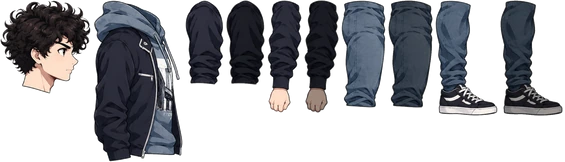
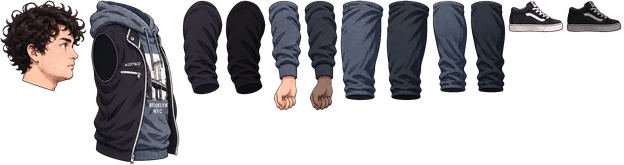
Corri Marf!: Marf rifatto con il nuovo foglio e le ragazze animate
- marf-pezzi.webp e ragazza-pezzi.webp: pezzi scontornati dal verde,
  girati verso destra (scarpe e sandali erano già girati), scritte della felpa raddrizzate
- scheletro generico per tutti i personaggi: busto, testa, braccio, avambraccio,
  coscia, stinco e piede separati
- le tre inseguitrici usano la stessa ragazza con taglie leggermente diverse

Claude-Session: https://claude.ai/code/session_017AfdJjPRYm7AhKZz7XGFBU

diff --git a/giochi/corri-marf/index.html b/giochi/corri-marf/index.html
@@ -676,104 +676,123 @@
       ctx.beginPath(); ctx.arc(MARF_X - 22, TERRA - 5, 5, 0, Math.PI * 2); ctx.arc(MARF_X - 30, TERRA - 8, 4, 0, Math.PI * 2); ctx.fill();
     }
   }
-  /* ── Marf a pezzi: i disegni di Leo (marf-pezzi.webp) montati su uno scheletro ──
-     Coordinate in pixel del foglio originale (girato verso destra), K le porta nel mondo. */
-  var PEZZI = { img: new Image(), pronto: false };
-  PEZZI.img.onload = function () { PEZZI.pronto = true; };
-  PEZZI.img.src = 'marf-pezzi.webp';
-  var K = 0.066, ATL_S = 0.25;
-  var ATLANTE = {
-    testa: [0, 0, 91, 94], busto: [93, 0, 90, 162],
-    braccio: [185, 0, 39, 85], braccioDietro: [226, 0, 39, 85],
-    avambraccio: [267, 0, 35, 113], avambraccioDietro: [304, 0, 35, 113],
-    coscia: [341, 0, 45, 108], cosciaDietro: [388, 0, 45, 108],
-    gamba: [435, 0, 63, 116], gambaDietro: [500, 0, 63, 116]
-  };
-  // perni (in px del pezzo) e lunghezze delle ossa
-  var COSCIA = { px: 90, py: 50, L: 350 }, STINCO = { px: 72, py: 25 };
-  var OMERO = { px: 78, py: 50, L: 255 }, AVAMB = { px: 70, py: 32 };
-  var GAMBA_TOT = 350 + 464 - 25;                  // dall'anca alla suola
-  var SPALLA = [-30, -365], BUSTO = [-159, -522];  // rispetto all'anca
-  var TESTA = { x: -127, y: -822, collo: [187, 370], scala: 1.15 };
+  /* ── Personaggi a pezzi: i fogli disegnati da Leo, scontornati e montati su uno scheletro ──
+     I dati vengono dallo script che taglia i fogli: per ogni pezzo il rettangolo nell'atlante
+     (scala 0.25), l'origine e il perno in pixel del foglio originale (girato verso destra),
+     la lunghezza delle ossa; anca e spalla sono punti del foglio. K porta i pixel nel mondo. */
+  var RIG_DATI = {"marf":{"atlante":{"testa":[0,0,87,92],"busto":[89,0,91,165],"braccio":[182,0,41,95],"braccioDietro":[225,0,41,95],"avambraccio":[268,0,34,111],"avambraccioDietro":[304,0,34,111],"coscia":[340,0,44,101],"cosciaDietro":[386,0,44,101],"stinco":[432,0,36,93],"stincoDietro":[470,0,36,93],"piede":[508,0,56,33],"piedeDietro":[566,0,56,33]},"parti":{"testa":{"o":[1060,10],"w":346,"h":368,"p":[155,355]},"busto":{"o":[1046,355],"w":364,"h":658},"braccio":{"o":[546,88],"w":163,"h":381,"p":[82,62],"L":295},"avambraccio":{"o":[575,484],"w":137,"h":442,"p":[65,31]},"coscia":{"o":[48,65],"w":177,"h":405,"p":[87,50],"L":330},"stinco":{"o":[62,484],"w":144,"h":371,"p":[68,26],"L":330},"piede":{"o":[1215,862],"w":224,"h":133,"p":[47,25]}},"anca":[1215,940],"spalla":[1105,572],"testaGiu":35},"ragazza":{"atlante":{"busto":[0,0,109,242],"braccio":[111,0,45,90],"braccioDietro":[158,0,45,90],"avambraccio":[205,0,38,115],"avambraccioDietro":[245,0,38,115],"coscia":[285,0,54,112],"cosciaDietro":[341,0,54,112],"stinco":[397,0,29,75],"stincoDietro":[428,0,29,75],"piede":[459,0,55,30],"piedeDietro":[516,0,55,30]},"parti":{"busto":{"o":[1070,29],"w":437,"h":969},"braccio":{"o":[576,88],"w":178,"h":359,"p":[92,52],"L":280},"avambraccio":{"o":[596,477],"w":151,"h":461,"p":[72,33]},"coscia":{"o":[26,97],"w":215,"h":448,"p":[104,53],"L":370},"stinco":{"o":[99,559],"w":114,"h":301,"p":[51,16],"L":265},"piede":{"o":[1299,867],"w":220,"h":120,"p":[41,18]}},"anca":[1290,915],"spalla":[1200,560],"testaGiu":0}};
+  var RIG = {};
+  Object.keys(RIG_DATI).forEach(function (nome) {
+    var d = RIG_DATI[nome], img = new Image();
+    var r = { d: d, img: img, pronto: false, K: 0.062 };
+    r.gamba = d.parti.coscia.L + d.parti.stinco.L + (d.parti.piede.h - d.parti.piede.p[1]); // anca → suola
+    img.onload = function () { r.pronto = true; };
+    img.src = nome + '-pezzi.webp?v=2';
+    RIG[nome] = r;
+  });
+  var PEZZI = RIG.marf;
+  var ATL_S = 0.25;
 
-  function pezzo(nome, px, py, ang, scalaExtra) {
-    var r = ATLANTE[nome], k = K * (scalaExtra || 1);
+  function pezzoR(R, nome, dietro, ang) {
+    var pt = R.d.parti[nome], at = R.d.atlante[nome + (dietro ? 'Dietro' : '')], k = R.K;
     ctx.save(); ctx.rotate(-ang);
-    ctx.drawImage(PEZZI.img, r[0], r[1], r[2], r[3], -px * k, -py * k, r[2] / ATL_S * k, r[3] / ATL_S * k);
+    ctx.drawImage(R.img, at[0], at[1], at[2], at[3], -pt.p[0] * k, -pt.p[1] * k, pt.w * k, pt.h * k);
     ctx.restore();
   }
-  function gambaPezzi(dietro, coscia, stinco, anca) {
-    var suf = dietro ? 'Dietro' : '';
+  function lungo(R, nome, ang) { var L = R.d.parti[nome].L * R.K; ctx.translate(Math.sin(ang) * L, Math.cos(ang) * L); }
+  function gambaR(R, dietro, coscia, stinco, anca) {
     ctx.save(); ctx.translate(dietro ? -4 : 3, anca);
-    ctx.save();
-    ctx.translate(Math.sin(coscia) * COSCIA.L * K, Math.cos(coscia) * COSCIA.L * K);
-    pezzo('gamba' + suf, STINCO.px, STINCO.py, stinco);
+    ctx.save(); lungo(R, 'coscia', coscia);
+    ctx.save(); lungo(R, 'stinco', stinco);
+    pezzoR(R, 'piede', dietro, stinco * 0.6 - 0.05);   // il piede segue lo stinco, un po' meno
     ctx.restore();
-    pezzo('coscia' + suf, COSCIA.px, COSCIA.py, coscia);
+    pezzoR(R, 'stinco', dietro, stinco);
+    ctx.restore();
+    pezzoR(R, 'coscia', dietro, coscia);
     ctx.restore();
   }
-  function braccioPezzi(dietro, omero, avamb) {
-    var suf = dietro ? 'Dietro' : '';
-    ctx.save(); ctx.translate((SPALLA[0] + (dietro ? -14 : 0)) * K, SPALLA[1] * K);
-    ctx.save();
-    ctx.translate(Math.sin(omero) * OMERO.L * K, Math.cos(omero) * OMERO.L * K);
-    pezzo('avambraccio' + suf, AVAMB.px, AVAMB.py, avamb);
+  function braccioR(R, dietro, omero, avamb) {
+    var k = R.K, A = R.d.anca, Sp = R.d.spalla;
+    ctx.save(); ctx.translate((Sp[0] - A[0] - (dietro ? 12 : 0)) * k, (Sp[1] - A[1]) * k);
+    ctx.save(); lungo(R, 'braccio', omero);
+    pezzoR(R, 'avambraccio', dietro, avamb);
     ctx.restore();
-    pezzo('braccio' + suf, OMERO.px, OMERO.py, omero);
+    pezzoR(R, 'braccio', dietro, omero);
+    ctx.restore();
+  }
+  // disegna il personaggio con l'origine sui piedi; anca = y dell'anca (negativa)
+  function personaggio(R, anca, po, piega, testaAng) {
+    var k = R.K, A = R.d.anca, pt = R.d.parti;
+    ctx.save(); ctx.translate(0, anca); ctx.rotate(-piega);
+    braccioR(R, true, po.bB, po.gB);              // braccio lontano, dietro a tutto
+    ctx.restore();
+    gambaR(R, true, po.cB, po.sB, anca);
+    gambaR(R, false, po.cA, po.sA, anca);
+    ctx.save(); ctx.translate(0, anca); ctx.rotate(-piega);
+    if (pt.testa) {                                // testa separata: dietro al busto, così il cappuccio copre il collo
+      var t = pt.testa;
+      ctx.save();
+      ctx.translate((t.o[0] + t.p[0] - A[0]) * k, (t.o[1] + t.p[1] + R.d.testaGiu - A[1]) * k);
+      pezzoR(R, 'testa', false, testaAng || 0);
+      ctx.restore();
+    }
+    var b = R.d.atlante.busto;
+    ctx.drawImage(R.img, b[0], b[1], b[2], b[3], (pt.busto.o[0] - A[0]) * k, (pt.busto.o[1] - A[1]) * k, pt.busto.w * k, pt.busto.h * k);
+    braccioR(R, false, po.bA, po.gA);
     ctx.restore();
   }
   function marfPezzi(anca, cA, sA, cB, sB, bA, gA, bB, gB, corre, salto, scivola, p) {
     var piega = corre ? 0.12 : (salto ? 0.06 : 0);   // in corsa si sporge in avanti
-    ctx.save(); ctx.translate(0, anca); ctx.rotate(-piega);
-    braccioPezzi(true, bB, gB);   // braccio lontano, dietro a tutto
-    ctx.restore();
-    gambaPezzi(true, cB, sB, anca);
-    gambaPezzi(false, cA, sA, anca);
-    ctx.save(); ctx.translate(0, anca); ctx.rotate(-piega);
-    // testa (dietro al busto, così il cappuccio copre il collo), un po' più grande e che dondola
-    ctx.save();
-    ctx.translate((TESTA.x + TESTA.collo[0]) * K, (TESTA.y + TESTA.collo[1]) * K);
-    pezzo('testa', TESTA.collo[0], TESTA.collo[1], corre ? Math.sin(p * 2) * 0.05 : 0, TESTA.scala);
-    ctx.restore();
-    ctx.drawImage(PEZZI.img, ATLANTE.busto[0], 0, ATLANTE.busto[2], ATLANTE.busto[3],
-      BUSTO[0] * K, BUSTO[1] * K, ATLANTE.busto[2] / ATL_S * K, ATLANTE.busto[3] / ATL_S * K);
-    braccioPezzi(false, bA, gA);
-    ctx.restore();
+    personaggio(PEZZI, anca, { cA: cA, sA: sA, cB: cB, sB: sB, bA: bA, gA: gA, bB: bB, gB: gB }, piega, corre ? Math.sin(p * 2) * 0.05 : 0);
   }
+  var GAMBA_TOT = PEZZI.gamba, K = PEZZI.K;
 
   function gamba(x, y, ang) {
     ctx.beginPath(); ctx.moveTo(x, y);
     ctx.lineTo(x + Math.sin(ang) * 36, y + Math.cos(ang) * 36); ctx.stroke();
   }
 
-  // Le tre inseguitrici (provvisorie)
+  // Le tre inseguitrici: per ora la stessa ragazza ripetuta (poi ne arrivano altre)
   var RAGAZZE = [
-    { capelli: '#f2c94c', vestito: '#e05d8c' },
-    { capelli: '#3b2a1c', vestito: '#9b5de5' },
-    { capelli: '#c0392b', vestito: '#e4b33c' }
+    { capelli: '#f2c94c', vestito: '#e05d8c', rig: 'ragazza', scala: 1 },
+    { capelli: '#3b2a1c', vestito: '#9b5de5', rig: 'ragazza', scala: 0.96 },
+    { capelli: '#c0392b', vestito: '#e4b33c', rig: 'ragazza', scala: 1.03 }
   ];
   function inseguitrici() {
     if (stato === 'menu') return;
     var fronte = MARF_X - 30 - Math.max(g.distacco, 0);
     var fase = g.t * 14;
     for (var i = RAGAZZE.length - 1; i >= 0; i--) {
-      var r = RAGAZZE[i];
-      var x = fronte - i * 46, y = TERRA - Math.abs(Math.sin(fase + i)) * 6;
+      var r = RAGAZZE[i], R = RIG[r.rig];
+      var x = fronte - i * 46, y = TERRA - Math.abs(Math.sin(fase + i)) * 4;
       if (x < -60) continue;
-      ctx.save(); ctx.translate(x, y); ctx.lineCap = 'round';
-      ctx.strokeStyle = '#e8b98f'; ctx.lineWidth = 7;
-      var a = Math.sin(fase + i * 1.3) * 0.8;
-      gamba(-3, -30, a); gamba(3, -30, -a);
-      ctx.fillStyle = r.vestito;
-      ctx.beginPath(); ctx.moveTo(-18, -30); ctx.lineTo(18, -30); ctx.lineTo(10, -70); ctx.lineTo(-10, -70); ctx.closePath(); ctx.fill();
-      ctx.strokeStyle = '#e8b98f'; ctx.lineWidth = 6;
-      ctx.beginPath(); ctx.moveTo(6, -64); ctx.lineTo(30, -76 + Math.sin(fase + i) * 6); ctx.stroke();
-      ctx.fillStyle = r.capelli; ctx.beginPath(); ctx.arc(-4, -86, 21, 0, Math.PI * 2); ctx.fill();
-      ctx.fillRect(-24, -88, 14, 34);
-      ctx.fillStyle = '#e8b98f'; ctx.beginPath(); ctx.arc(2, -86, 16, 0, Math.PI * 2); ctx.fill();
-      ctx.fillStyle = '#111'; ctx.beginPath(); ctx.arc(8, -89, 2.5, 0, Math.PI * 2); ctx.fill();
-      ctx.fillStyle = '#d2452f'; ctx.beginPath(); ctx.arc(11, -79, 3.5, 0, Math.PI * 2); ctx.fill();
-      ctx.fillStyle = '#ff5c8a'; cuore(14, -112 - Math.abs(Math.sin(fase * 0.5 + i)) * 10, 7);
+      ctx.save(); ctx.translate(x, y);
+      if (R && R.pronto) {
+        var f = fase * 0.85 + i * 2.1, s = Math.sin(f), c = Math.cos(f);
+        ctx.scale(r.scala, r.scala);
+        personaggio(R, -R.gamba * R.K, {
+          cA: s * 0.65, sA: s * 0.65 - Math.max(0, -c) * 1.3 - 0.3,
+          cB: -s * 0.65, sB: -s * 0.65 - Math.max(0, c) * 1.3 - 0.3,
+          bA: 1.35 + s * 0.15, gA: 1.55 + s * 0.1,     // braccio teso verso Marf
+          bB: s * 0.8, gB: s * 0.8 + 1.5
+        }, 0.1, 0);
+        ctx.fillStyle = '#ff5c8a'; cuore(16, -112 - Math.abs(Math.sin(fase * 0.5 + i)) * 10, 7);
+      } else {
+        ctx.lineCap = 'round';
+        ctx.strokeStyle = '#e8b98f'; ctx.lineWidth = 7;
+        var a = Math.sin(fase + i * 1.3) * 0.8;
+        gamba(-3, -30, a); gamba(3, -30, -a);
+        ctx.fillStyle = r.vestito;
+        ctx.beginPath(); ctx.moveTo(-18, -30); ctx.lineTo(18, -30); ctx.lineTo(10, -70); ctx.lineTo(-10, -70); ctx.closePath(); ctx.fill();
+        ctx.strokeStyle = '#e8b98f'; ctx.lineWidth = 6;
+        ctx.beginPath(); ctx.moveTo(6, -64); ctx.lineTo(30, -76 + Math.sin(fase + i) * 6); ctx.stroke();
+        ctx.fillStyle = r.capelli; ctx.beginPath(); ctx.arc(-4, -86, 21, 0, Math.PI * 2); ctx.fill();
+        ctx.fillRect(-24, -88, 14, 34);
+        ctx.fillStyle = '#e8b98f'; ctx.beginPath(); ctx.arc(2, -86, 16, 0, Math.PI * 2); ctx.fill();
+        ctx.fillStyle = '#111'; ctx.beginPath(); ctx.arc(8, -89, 2.5, 0, Math.PI * 2); ctx.fill();
+        ctx.fillStyle = '#d2452f'; ctx.beginPath(); ctx.arc(11, -79, 3.5, 0, Math.PI * 2); ctx.fill();
+        ctx.fillStyle = '#ff5c8a'; cuore(14, -112 - Math.abs(Math.sin(fase * 0.5 + i)) * 10, 7);
+      }
       ctx.restore();
       if (g.fumetto && g.fumetto.chi === i && stato === 'gioco') fumetto(x, y - 120, g.fumetto.testo);
     }
